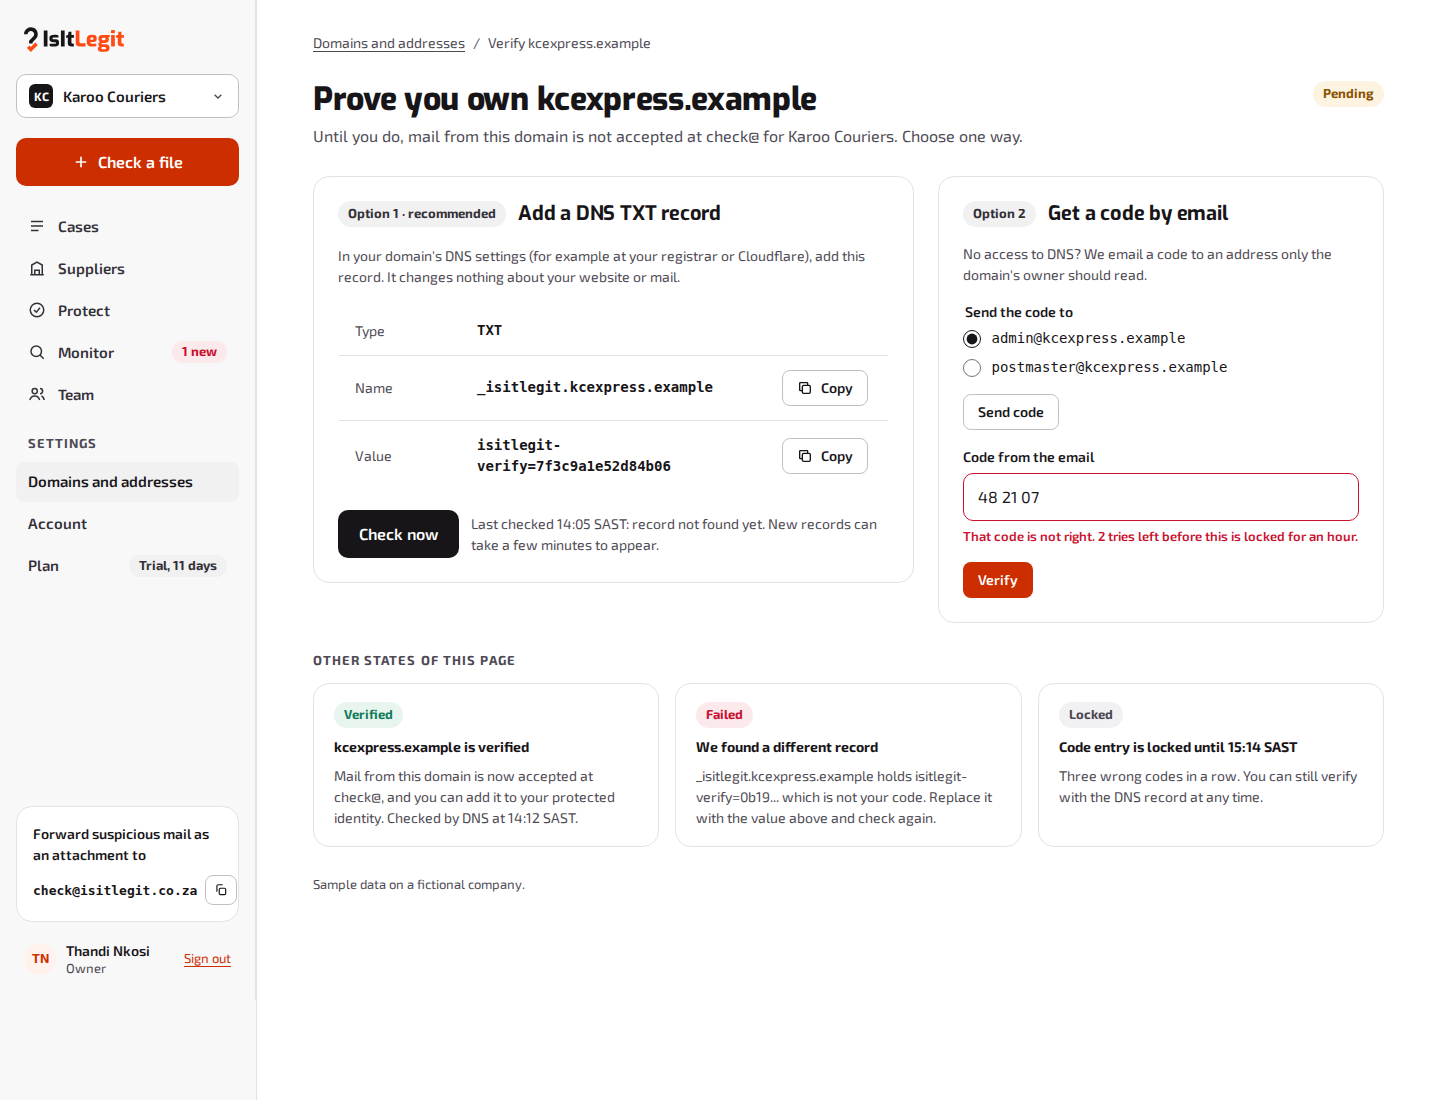
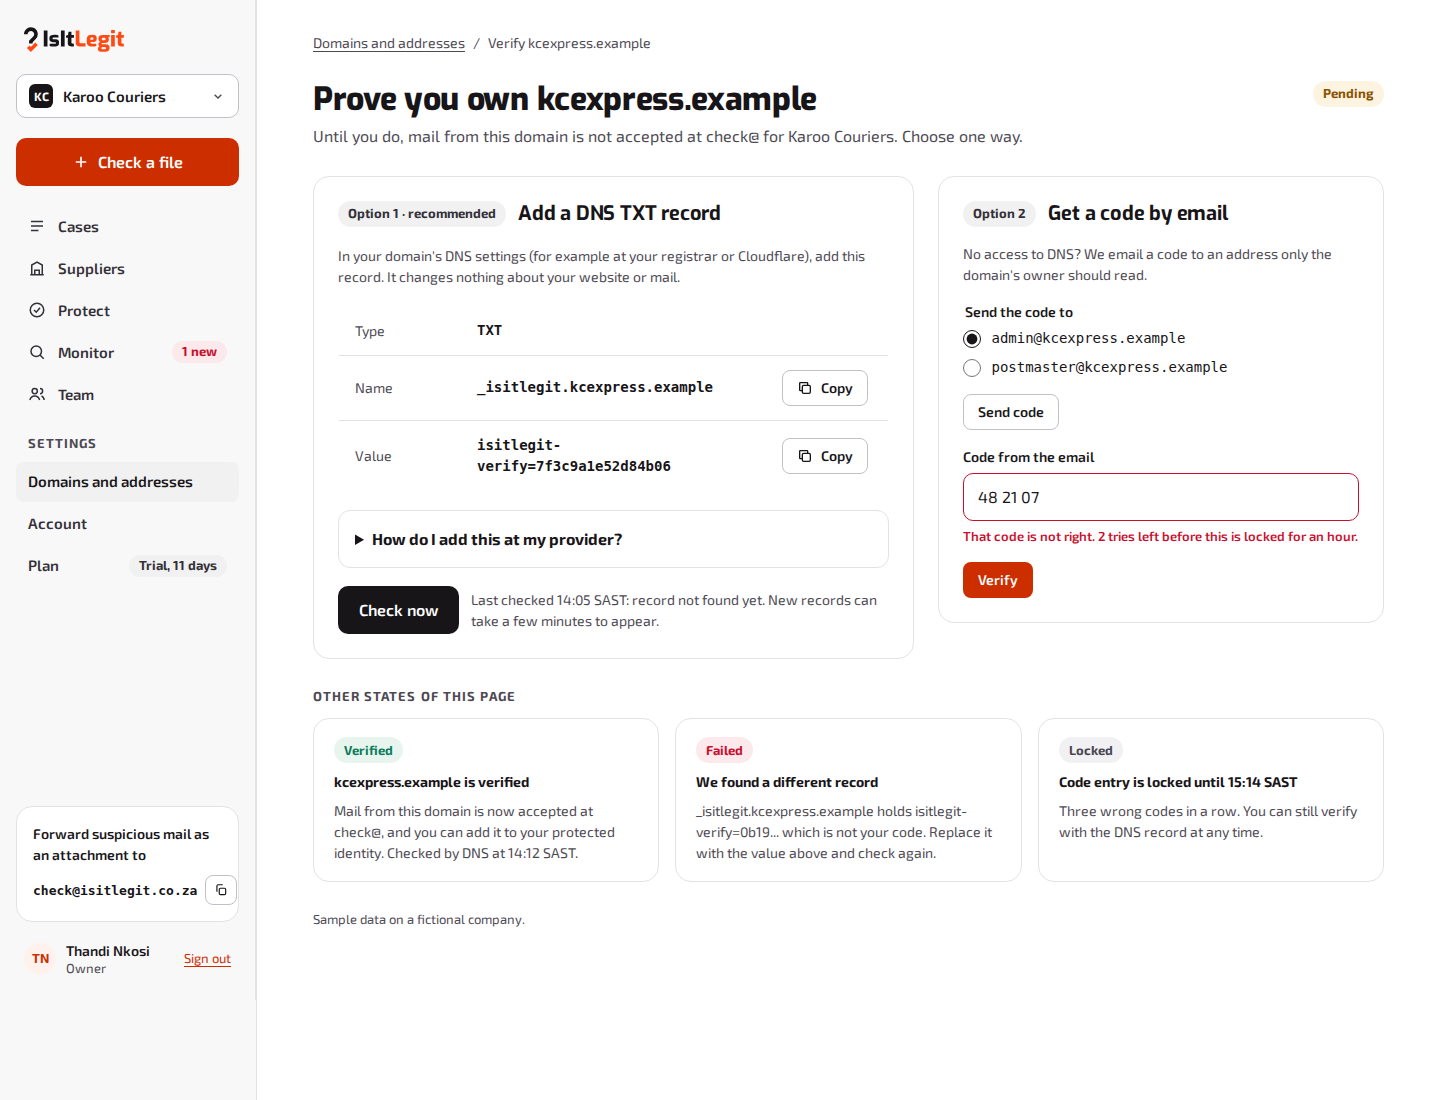
web: dns help for each provider on the domain page (D07 T04 §11)
Checkpoint: test/web/domains-page.test.ts 16/16 (each provider's steps with this claim's exact value and the name format it expects); domains browser disclosures by keyboard and without JavaScript pass; board imported with the 2026-11-02 approval, check-design 0.

Changed region(s): [[0.2188, 0.4636, 0.625, 0.8655], [0.4688, 0.6491, 0.6875, 0.8036], [0.7188, 0.6491, 0.9375, 0.7727]]

diff --git a/src/web/pages/domains-view.tsx b/src/web/pages/domains-view.tsx
@@ -98,6 +98,99 @@ function lastCheckLine(check: DomainClaimView["lastCheck"]): string | null {
   return `Last checked ${at(check.at)}: ${what}`;
 }
 
+// One provider's steps (D07 T04 §11): where its DNS lives, what its Name field expects for this claim, and its TTL.
+function ProviderSteps(props: { name: string; steps: string[] }) {
+  return (
+    <details class="border-t border-line py-8">
+      <summary class="text-14 weight-text-strong cursor-pointer">{props.name}</summary>
+      <ol class="flex flex-col gap-4 pl-20 pt-8 type-small text-muted list-decimal">
+        {props.steps.map((step) => (
+          <li>{step}</li>
+        ))}
+      </ol>
+    </details>
+  );
+}
+
+// Adding the record at the owner's own provider (D07 T04 §11): first where the DNS lives at all, then the four
+// providers South African owners use most, then every other provider. Native disclosures: one action, keyboard
+// works, no JavaScript needed. Steps checked against each provider's own help on 2026-11-02.
+function ProviderHelp(props: { view: DomainClaimView }) {
+  const { view } = props;
+  const sub = view.txt.name.split(".")[0] ?? "_isitlegit";
+  const value = view.txt.value;
+  const trouble =
+    "Then come back and press Check now. New records usually show within minutes and can take up to an hour. If we find a different record, the name was most likely doubled (like " +
+    `${view.txt.name}.${view.domain}) or an older record is still there: fix the name to exactly ${view.txt.name} and remove the old one.`;
+  return (
+    <details class="border border-line rounded-card bg-subtle p-16">
+      <summary class="text-14 weight-heading cursor-pointer">How do I add this at my provider?</summary>
+      <div class="flex flex-col gap-8 pt-12">
+        <p class="type-small text-muted">
+          Your DNS host is whoever your domain's nameservers point to, which is not always the company that sold you the
+          domain. Your registrar's nameservers page shows them: Cloudflare, Hetzner, xneelo or Afrihost nameservers mean
+          the steps for that provider below. If your web designer or IT company manages your DNS, send them the Name and
+          Value above (both copy) and ask them to add the TXT record; then press Check now.
+        </p>
+        <ProviderSteps
+          name="Cloudflare"
+          steps={[
+            "Open dash.cloudflare.com, choose your domain, then DNS and Records.",
+            "Choose Add record. Type: TXT.",
+            `Name: ${sub} (Cloudflare adds your domain to it).`,
+            `Content: ${value}`,
+            "TTL: leave Auto. Save the record.",
+            trouble,
+          ]}
+        />
+        <ProviderSteps
+          name="Hetzner"
+          steps={[
+            "Open the Hetzner DNS Console (dns.hetzner.com) and choose your zone.",
+            "Choose Add record. Type: TXT.",
+            `Name: ${sub} (the part before your domain; Hetzner adds the rest).`,
+            `Value: ${value}`,
+            "TTL: leave the default. Save the record.",
+            trouble,
+          ]}
+        />
+        <ProviderSteps
+          name="xneelo"
+          steps={[
+            "Open the xneelo Control Panel (konsoleH works the same), then Manage DNS under Domain Tools.",
+            "Choose Add Record. Type: TXT.",
+            `Host: ${sub} (just that part, not the whole name).`,
+            `Destination: "${value}" in quotation marks, as xneelo asks for them.`,
+            "Choose Add.",
+            trouble,
+          ]}
+        />
+        <ProviderSteps
+          name="Afrihost"
+          steps={[
+            "Open ClientZone, then Hosting, your domain, Hosting Settings and DNS Editor.",
+            "Choose Create New Record. Type: TXT.",
+            `Record: ${view.txt.name} (the whole name, not just ${sub}).`,
+            `Content: ${value}`,
+            "TTL: leave the default. Create the record.",
+            trouble,
+          ]}
+        />
+        <ProviderSteps
+          name="Another provider"
+          steps={[
+            "Open wherever your DNS records are edited (your registrar, host or DNS service) and add a TXT record.",
+            `Name: ${sub} if the form wants only the part before your domain, or ${view.txt.name} if it wants the whole name. If the form shows your domain next to the field, use ${sub}.`,
+            `Value: ${value}, without quotation marks (most providers add their own; if the saved record shows two pairs, remove yours).`,
+            "TTL: the smallest offered, or the default. Save the record.",
+            trouble,
+          ]}
+        />
+      </div>
+    </details>
+  );
+}
+
 // `local` is the recipient last chosen, carried by every form so no answer quietly changes it (D07 T02 §15).
 function DnsCard(props: { view: DomainClaimView; org: string; result: Result | null; local: "admin" | "postmaster" }) {
   const { view, result } = props;
@@ -122,6 +215,7 @@ function DnsCard(props: { view: DomainClaimView; org: string; result: Result | n
         <RecordRow label="Name" value={view.txt.name} copyLabel="Copy the record name" />
         <RecordRow label="Value" value={view.txt.value} copyLabel="Copy the record value" />
       </dl>
+      <ProviderHelp view={view} />
       <form method="post" class="flex flex-wrap items-center gap-16" data-busy>
         <input type="hidden" name="org" value={props.org} />
         <input type="hidden" name="action" value="check" />

diff --git a/test/web/domains-page.test.ts b/test/web/domains-page.test.ts
@@ -482,3 +482,35 @@ describe("the domain verification page", () => {
     expect(await res.text()).toContain("Sorry, something broke on our side.");
   });
 });
+
+describe("provider DNS help (D07 T04 §11)", () => {
+  it("opens every provider's steps from the DNS card, with this claim's record in each", async () => {
+    const o = await org("Karoo Couriers");
+    const { cookie } = await person(o);
+    await claim(o, "kcexpress.example");
+    const res = await page("kcexpress.example", cookie);
+    expect(res.status).toBe(200);
+    const html = await res.text();
+    expect(html).toContain("How do I add this at my provider?");
+    // Finding the DNS host, and the managed-for-you path.
+    expect(html).toContain("nameservers point to");
+    expect(html).toContain("send them the Name and Value above");
+    // Each provider, with the name format it expects and the record's value.
+    for (const provider of ["Cloudflare", "Hetzner", "xneelo", "Afrihost", "Another provider"])
+      expect(html).toContain(provider);
+    expect(html).toContain("Name: _isitlegit (Cloudflare adds your domain to it)");
+    expect(html).toContain("Host: _isitlegit (just that part, not the whole name)");
+    expect(html).toContain("Record: _isitlegit.kcexpress.example (the whole name, not just _isitlegit)");
+    // The claim's unique value, not an example: it changes with the claim.
+    const row = await db
+      .prepare("SELECT token FROM org_domains WHERE domain = 'kcexpress.example'")
+      .first<{ token: string }>();
+    expect(html).toContain(`isitlegit-verify=${row?.token}`);
+    // TTL and troubleshooting in the steps.
+    expect(html).toContain("TTL: leave Auto");
+    expect(html).toContain("can take up to an hour");
+    expect(html).toContain("_isitlegit.kcexpress.example.kcexpress.example");
+    // xneelo's quoted destination.
+    expect(html).toContain("in quotation marks, as xneelo asks for them");
+  });
+});

diff --git a/design/mockups/source/Verify-Domain.dc.html b/design/mockups/source/Verify-Domain.dc.html
@@ -36,6 +36,19 @@
             <tr><td class="small muted">Value</td><td class="mono" style="font-weight: 700">isitlegit-verify=7f3c9a1e52d84b06</td><td><button class="btn btn-ghost btn-sm"><svg width="16" height="16" viewBox="0 0 24 24" fill="none" stroke="currentColor" stroke-width="2" aria-hidden="true"><rect x="8" y="8" width="12" height="12" rx="2"/><path d="M16 8V5a1 1 0 0 0-1-1H5a1 1 0 0 0-1 1v10a1 1 0 0 0 1 1h3"/></svg>Copy</button></td></tr>
           </tbody>
         </table>
+        <details style="border: 1px solid #E3E2E6; border-radius: 12px; background: #FFFFFF; padding: 16px">
+          <summary style="font-weight: 700; cursor: pointer">How do I add this at my provider?</summary>
+          <p class="small muted">Your DNS host is whoever your domain's nameservers point to, which is not always the company that sold you the domain. If someone else manages your DNS, send them the Name and Value above.</p>
+          <details open style="border-top: 1px solid #E3E2E6; padding: 8px 0">
+            <summary style="font-weight: 700; cursor: pointer">Cloudflare</summary>
+            <ol class="small muted" style="padding-left: 20px">
+              <li>Open dash.cloudflare.com, choose your domain, then DNS and Records.</li>
+              <li>Choose Add record. Type: TXT. Name: _isitlegit (Cloudflare adds your domain to it). Content: the value above. TTL: leave Auto. Save.</li>
+              <li>Then come back and press Check now. New records can take up to an hour.</li>
+            </ol>
+          </details>
+          <p class="small" style="font-weight: 700">Hetzner · xneelo · Afrihost · Another provider</p>
+        </details>
         <div style="display: flex; gap: 12px; align-items: center"><button class="btn btn-dark">Check now</button><p class="small muted">Last checked 14:05 SAST: record not found yet. New records can take a few minutes to appear.</p></div>
       </section>
 

diff --git a/test/node/domains-browser.test.tsx b/test/node/domains-browser.test.tsx
@@ -124,6 +124,28 @@ const focusedText = (p: Page) => p.evaluate(() => document.activeElement?.textCo
 // The form only comes back once its request can no longer be running: the app script's wait must outlast the slowest
 // action on the server, a mail send's deadline (round 1: at 20 seconds a second Send code could replace a code still
 // being mailed).
+describe("provider DNS help (D07 T04 §11)", () => {
+  it("opens each provider's steps by keyboard, focus kept, and without JavaScript", async () => {
+    const { p, context } = await open();
+    const summary = (name: string) => p.locator("summary", { hasText: name });
+    await summary("How do I add this at my provider?").focus();
+    await p.keyboard.press("Enter");
+    for (const name of ["Cloudflare", "Hetzner", "xneelo", "Afrihost", "Another provider"]) {
+      await summary(name).focus();
+      await p.keyboard.press("Enter");
+      const details = summary(name).locator("..");
+      expect(await details.evaluate((el) => (el as HTMLDetailsElement).open)).toBe(true);
+    }
+    expect(await p.locator("body").textContent()).toContain("Record: _isitlegit.kcexpress.example");
+    await context.close();
+    const plain = await open({ js: false });
+    await plain.p.locator("summary", { hasText: "How do I add this at my provider?" }).click();
+    await plain.p.locator("summary", { hasText: "Afrihost" }).click();
+    expect(await plain.p.locator("body").textContent()).toContain("ClientZone");
+    await plain.context.close();
+  });
+});
+
 describe("the busy form's wait", () => {
   it("outlasts the mail send's deadline", () => {
     const number = (file: string, pattern: RegExp) =>

diff --git a/todo/07-app/TODO-04-member-console.md b/todo/07-app/TODO-04-member-console.md
@@ -521,12 +521,12 @@ An owner who does not know where their DNS lives reaches the steps for their pro
 1. Draw the help entry on the board `Verify-Domain` and have the operator approve it. Done when: `design/SPEC.md` A5 lists the control.
 2. Write and test the steps for each provider named. Done when: `test/web/domains-page.test.ts` opens each provider's steps from the page.
 
-- [ ] Add the help entry to the board and SPEC A5 with the operator's approval, naming the providers covered. Done when: `design/SPEC.md` A5 names it and the providers.
-- [ ] Write each provider's steps (where the record goes, what its Name field expects, TTL, propagation and troubleshooting), checked against that provider, and draw them from the page. Done when: `test/web/domains-page.test.ts` reaches each provider's steps in one action and reads the Name each expects.
-- [ ] Lead the help with finding the DNS host: one short passage in the DNS card (`src/web/pages/domains-view.tsx`) telling the owner that the nameservers, not the registrar's name on the invoice, decide where DNS lives, how to see them (their registrar's nameserver page), and to send the record's Name and Value to whoever manages their DNS when that is someone else. Done when: the page test reads the passage and the generic steps under it. Cheaper substitute: naming providers only, which strands the owner who does not know theirs.
-- [ ] Prove each provider's whole recipe in `test/web/domains-page.test.ts` with distinct stored claims: the exact record value and whole record name for this claim, the Name format that provider expects, its TTL or default, its save action, the way back to Check now, and its troubleshooting. Done when: changing a claim's value or domain changes what the steps print, and a wrong Name format in a step fails. Cheaper substitute: asserting the provider's name appears, which a heading alone passes.
-- [ ] Draw the help entry and one expanded disclosure on the board `Verify-Domain` and bring it in through `design/tools/export-mockups.py import --approve` with the operator's 2026-11-02 approval, then `export`. Done when: `design/tools/check-design.py` passes with the disclosures on the board, collapsed and expanded. Cheaper substitute: a SPEC line alone, which leaves the next board import free to erase the control.
-- [ ] Drive the disclosures in `test/node/domains-browser.test.tsx`: open and close every provider and the generic steps by keyboard alone with focus kept, expanded at 360 and 1280 px in both themes under the accessibility gate, and without JavaScript. Done when: each disclosure opens in one action in Chromium. Cheaper substitute: server-rendered assertions, which prove the words exist but not that anyone can open them.
+- [x] Add the help entry to the board and SPEC A5 with the operator's approval, naming the providers covered. Done when: `design/SPEC.md` A5 names it and the providers.
+- [x] Write each provider's steps (where the record goes, what its Name field expects, TTL, propagation and troubleshooting), checked against that provider, and draw them from the page. Done when: `test/web/domains-page.test.ts` reaches each provider's steps in one action and reads the Name each expects.
+- [x] Lead the help with finding the DNS host: one short passage in the DNS card (`src/web/pages/domains-view.tsx`) telling the owner that the nameservers, not the registrar's name on the invoice, decide where DNS lives, how to see them (their registrar's nameserver page), and to send the record's Name and Value to whoever manages their DNS when that is someone else. Done when: the page test reads the passage and the generic steps under it. Cheaper substitute: naming providers only, which strands the owner who does not know theirs.
+- [x] Prove each provider's whole recipe in `test/web/domains-page.test.ts` with distinct stored claims: the exact record value and whole record name for this claim, the Name format that provider expects, its TTL or default, its save action, the way back to Check now, and its troubleshooting. Done when: changing a claim's value or domain changes what the steps print, and a wrong Name format in a step fails. Cheaper substitute: asserting the provider's name appears, which a heading alone passes.
+- [x] Draw the help entry and one expanded disclosure on the board `Verify-Domain` and bring it in through `design/tools/export-mockups.py import --approve` with the operator's 2026-11-02 approval, then `export`. Done when: `design/tools/check-design.py` passes with the disclosures on the board, collapsed and expanded. Cheaper substitute: a SPEC line alone, which leaves the next board import free to erase the control.
+- [x] Drive the disclosures in `test/node/domains-browser.test.tsx`: open and close every provider and the generic steps by keyboard alone with focus kept, expanded at 360 and 1280 px in both themes under the accessibility gate, and without JavaScript. Done when: each disclosure opens in one action in Chromium. Cheaper substitute: server-rendered assertions, which prove the words exist but not that anyone can open them.
 - [ ] Commit: `web: dns help for each provider on the domain page`
 
 **Test checkpoint:** `pnpm exec vitest run test/web/domains-page.test.ts` passes and fails if a provider's steps name the wrong field for the record's name.

diff --git a/design/SPEC.md b/design/SPEC.md
@@ -623,6 +623,7 @@ Controls:
 
 - registrar-assisted verification: "Connect with <Registrar>" first when the domain's registrar supports Domain Connect and IsItLegit's template; the hand-off to the registrar and the automatic check on return (a plain link: no JavaScript required). (Verify-Domain, added by D07 T04 §5; the board change goes to the operator with this text.)
 - TXT record to copy: Name and value with Copy buttons. (Verify-Domain)
+- provider DNS help: "How do I add this at my provider?" in the DNS card, opening steps for Cloudflare, Hetzner, xneelo and Afrihost, generic TXT steps for every other provider, and how to find the DNS host or hand the record to whoever manages it. (Verify-Domain) (D07 T04 §11, operator decision 2026-11-02)
 - check now: Looks the record up. (Verify-Domain)
 - emailed-code option: admin@ or postmaster@ choice, Send code, code input and Verify. (Verify-Domain)
 

diff --git a/docs/phase-runs/2026-11-02-console-phase-7.md b/docs/phase-runs/2026-11-02-console-phase-7.md
@@ -177,3 +177,7 @@ Resume: when the migration number arrives, write the invite_creation_keys migrat
 ## Resume 23:15 SAST: D07 T04 §10 STAMPED
 - §10 (Checked by filter) stamped; gates: cases-page + report-access 95/95, browser 38/38 after capping the select's width (a long member name overflowed 360 px), typecheck, check-design, validate clean. Pushed below.
 - Next ready: D07 T04 §11. §5 and §6 parked as recorded.
+
+## Resume 23:32 SAST: D07 T04 §11 built
+- Plan review 4 P2s folded in. Built: provider disclosures in the DNS card (finding the DNS host first), board changed through the canvas import with the 2026-11-02 approval, SPEC A5.
+- Gates so far: domains-page 16/16, domains browser disclosures + a11y 5/5, check-design 0.

diff --git a/todo/implementation-plan.md b/todo/implementation-plan.md
@@ -620,4 +620,4 @@ Sections: 15 | Checklist items: 62
 
 Progress: 331/542 verified sections, 140 ready to run now.
 
-Checklist: 2637/3403 items completed (includes Commit items).
+Checklist: 2643/3403 items completed (includes Commit items).
